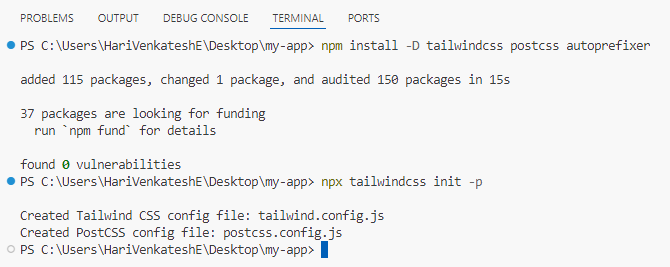
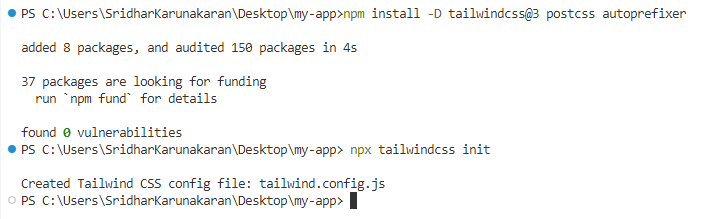
Integrated latest changes at 02-21-2025 4:36:35 PM

diff --git a/ej2-react/image-editor/resize.md b/ej2-react/image-editor/resize.md
@@ -20,7 +20,10 @@ The Image Editor control includes a [`resize`](https://ej2.syncfusion.com/react/
 
 * height: Specifies the resizing height of the image.
 
-* isAspectRatio: Specifies a boolean value indicating whether the image should maintain its original aspect ratio during resizing. When set to true, the image will be resized while preserving its aspect ratio 
+* isAspectRatio: Specifies a boolean value indicating whether the image should maintain its original aspect ratio during resizing.
+    * When set to `true`, the image maintains its original aspect ratio. The width is applied as specified, and the height is automatically adjusted to maintain the aspect ratio.
+    * When set to `false`, the image is resized according to the specified width and height, without maintaining the aspect ratio.
+    * The default value is `false`.
 
 Here is an example of resizing the image using the [`resize`](https://ej2.syncfusion.com/react/documentation/api/image-editor/#resize) method. 
 

diff --git a/ej2-react/ui-kit/build-your-first-react-app-with-blocks.md b/ej2-react/ui-kit/build-your-first-react-app-with-blocks.md
@@ -30,8 +30,8 @@ If you choose **Tailwind** theme, follow these steps to configure it.
 1. In the Visual Studio Code terminal, run the following commands to install the **Tailwind** packages and create the **tailwind.config.js** file.
 
     ```bash
-    npm install -D tailwindcss postcss autoprefixer
-    npx tailwindcss init -p
+    npm install -D tailwindcss@3 postcss autoprefixer
+    npx tailwindcss init
     ```
   
     ![Tailwind Installation](images/tailwind-installation.PNG)

diff --git a/ej2-react/grid/connecting-to-adaptors/graphql-adaptor.md b/ej2-react/grid/connecting-to-adaptors/graphql-adaptor.md
@@ -16,7 +16,7 @@ Syncfusion's Grid component seamlessly integrates with GraphQL servers using the
 
 This section describes a step-by-step process for retrieving data from GraphQL service using `GraphQLAdaptor`, then binding it to the React Grid component to facilitate data and CRUD operations.
 
-### Configure GraphQL Server
+## Configure GraphQL Server
 
 To configure a GraphQL server for use with Syncfusion React Grid, you need to follow several steps:
 
